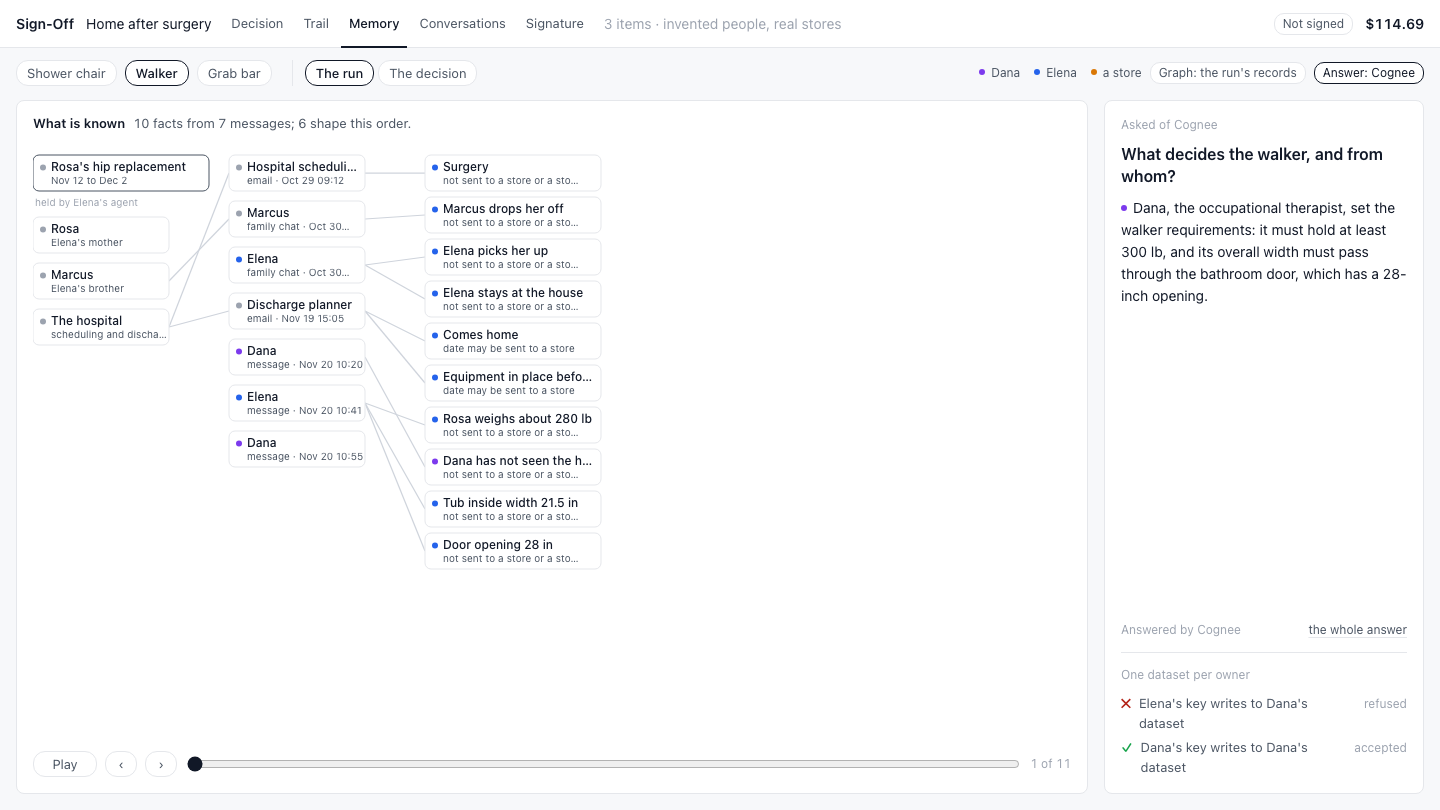
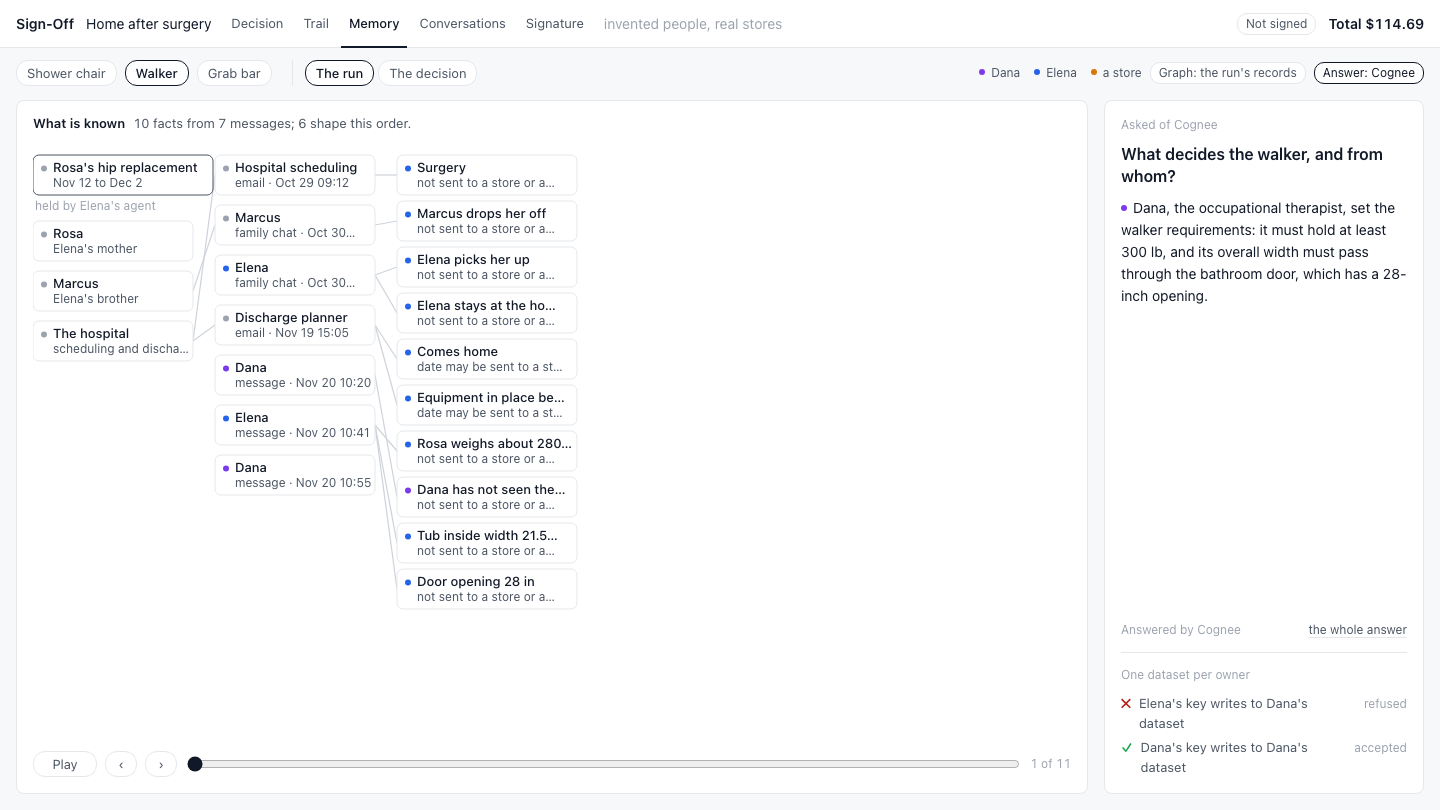
GRAPH: every product is its photo (26 px, 18 px set aside, 72 px survivors); no text under 12 px; the canvas scales from its container; the page opens paused on the finished picture; the shared top bar's words

Changed region(s): [[0.0312, 0.1852, 0.4062, 0.7407], [0.4688, 0.0, 0.5312, 0.0617], [0.875, 0.0, 0.9375, 0.0617]]

diff --git a/web/graph/explore.js b/web/graph/explore.js
@@ -4,13 +4,13 @@
 const NS = "http://www.w3.org/2000/svg";
 const REM = parseFloat(getComputedStyle(document.documentElement).fontSize) / 16;
 const px = (n) => n * REM;
-const CW = px(136), CH = px(36), SP = px(25), R = px(8), RS = px(5), RB = px(13);
+const CW = px(160), CH = px(40), SP = px(29), R = px(13), RS = px(9), RB = px(22);
 const esc = (s) => String(s ?? "").replace(/[&<>"]/g, (c) => ({ "&": "&amp;", "<": "&lt;", ">": "&gt;", '"': "&quot;" }[c]));
 const ownerClass = (o) => (o === "issuer" || o === "shopper" ? o : o === "system" || o === "web" ? "" : "store");
 const short = (s, n) => (String(s || "").length > n ? String(s).slice(0, n - 1).trimEnd() + "…" : String(s || ""));
 const clock = (at) => (at ? String(at).slice(11, 16) : "");
-const FW = px(176);                                                // a fact quoted from a message is a wider card
-const GW = px(214);                                                // the one node that stands for everything recalled
+const FW = px(180);                                                // a fact quoted from a message is a wider card
+const GW = px(244);                                                // the one node that stands for everything recalled
 const boxW = (n) => (n.group ? GW : n.kind === "context_fact" || n.kind === "event" ? FW : CW);
 const REASONS = ["outside", "unclear", "not stated", "struck", "struck before"];
 
@@ -37,7 +37,7 @@ function plan(k) {
   const P = new Map(), lines = [], texts = [];
   let leftBottom = 2 * (CH + px(22));
   const put = (id, x, y, more = {}) => P.set(id, { x, y, ...more, o: (added.get(id) ?? 0) <= k ? more.o ?? 1 : 0 });
-  const GAP = px(60), XI = CW + GAP, XS = XI + CW + GAP, PX0 = XS + CW + px(28), YROW = H * 0.56, YB = H * 0.77;
+  const GAP = px(22), XI = CW + GAP, XS = XI + CW + GAP, PX0 = XS + CW + px(22), YROW = H * 0.57, YB = H * 0.77;
 
   // the order: who, the item, the measurement
   const people = data.nodes.filter((n) => n.kind === "person");
@@ -56,7 +56,7 @@ function plan(k) {
     notes.forEach((n, i) => put(n.id, XI, i * (CH + px(10))));
     const fy = new Map();
     known.forEach((n, i) => { fy.set(n.id, i * (CH + px(6))); put(n.id, XS, fy.get(n.id), { w: FW, o: k >= iOrder && !n.used ? 0.4 : 1 }); });
-    const XD = XS + FW + px(166), XE = XD + CW + px(24);
+    const XD = XS + FW + px(150), XE = XD + CW + px(18);
     const want = (id) => { const ys = data.edges.filter((e) => e.feeds && e.to === id).map((e) => fy.get(e.from)); return ys.length ? ys.reduce((a, b) => a + b, 0) / ys.length : null; };
     const issuer = people.find((n) => n.id === "person:issuer"), shopper = people.find((n) => n.id === "person:shopper");
     [item, ...limits].forEach((n, i) => put(n.id, XE, i * (CH + px(8))));          // prescribed: the order and its rules
@@ -121,22 +121,22 @@ function plan(k) {
     groups.get(key).ids.push(p.id);
   }
   const ordered = [...groups.values()].sort((a, b) => a.stage - b.stage || REASONS.indexOf(a.reason) - REASONS.indexOf(b.reason));
-  const gcols = 9, gsp = px(13), RQ = px(2.5);
+  const gcols = 8, gsp = px(20), RQ = px(5);
   let gx = ranked ? 0 : XS;
   const asidePos = new Map();
   for (const g of ordered) {
     if (ranked) {                                                   // one quiet row: a count, a reason, its dots
-      const label = `${g.ids.length} ${g.reason}`, lw = label.length * px(5.4) + px(8);
-      texts.push({ x: gx, y: H - px(4), cls: "gs", html: esc(label) });
-      g.ids.forEach((id, i) => asidePos.set(id, { x: gx + lw + i * px(7), y: H - px(7), quiet: true }));
-      gx += lw + g.ids.length * px(7) + px(18);
+      const label = `${g.ids.length} ${g.reason}`, lw = label.length * px(6.6) + px(10);
+      texts.push({ x: gx, y: H - px(3), cls: "gs", html: esc(label) });
+      g.ids.forEach((id, i) => asidePos.set(id, { x: gx + lw + i * px(11) + RQ, y: H - px(7), quiet: true }));
+      gx += lw + g.ids.length * px(11) + px(16);
       continue;
     }
-    const w = Math.max(px(112), Math.min(gcols, g.ids.length) * gsp + px(10));
+    const w = Math.max(px(104), Math.min(gcols, g.ids.length) * gsp + px(6));
     texts.push({ x: gx, y: YB + px(4), cls: "gh", html: `<tspan class="gc">${g.ids.length}</tspan> ${esc(g.reason)}` });
-    texts.push({ x: gx, y: YB + px(18), cls: "gs", html: esc(S[g.stage].rule || S[g.stage].title) });
-    g.ids.forEach((id, i) => asidePos.set(id, { x: gx + (i % gcols) * gsp + RS, y: YB + px(34) + Math.floor(i / gcols) * (gsp + px(3)) }));
-    gx += w + px(14);
+    texts.push({ x: gx, y: YB + px(20), cls: "gs", html: esc(S[g.stage].rule || S[g.stage].title) });
+    g.ids.forEach((id, i) => asidePos.set(id, { x: gx + (i % gcols) * gsp + RS, y: YB + px(38) + Math.floor(i / gcols) * (gsp + px(1)) }));
+    gx += w + px(8);
   }
 
   // the web row and the ranked line
@@ -145,27 +145,28 @@ function plan(k) {
   const searched = reviews.map((r) => r.product);
   const order = iRank >= 0 ? S[iRank].order : [];
   const webbed = iWeb >= 0 && k >= iWeb;
-  const TOP = 5, BIGSTEP = px(84), RBIG = px(26), GS = 1.3, CY = H * 0.46;
-  const gateX = W - CW * GS - px(2), leftEdge = XI + CW + px(64);
+  const RBIG = px(36), GS = 1.15, CY = H * 0.47;
+  const gateX = W - CW * GS - px(2), leftEdge = XI + CW + px(26), head = gateX - px(40) - RBIG;
+  let TOP = Math.min(5, order.length);
+  while (TOP > 2 && (head - leftEdge - RBIG) / (TOP - 1) < px(104)) TOP -= 1;
   const big = new Set(ranked ? order.slice(0, TOP) : webbed ? searched : []);
   const linePos = new Map();
   if (ranked) {
-    const head = gateX - px(44) - RBIG, n = Math.min(TOP, order.length);
-    const step = n > 1 ? Math.min(px(170), (head - leftEdge - RBIG) / (n - 1)) : 0;
+    const n = TOP, step = n > 1 ? Math.min(px(170), (head - leftEdge - RBIG) / (n - 1)) : 0;
     order.slice(0, TOP).forEach((id, i) => linePos.set(id, { x: head - i * step, y: CY }));
     // the rest that pass, in order, in a quiet block under them
-    const tail = order.slice(TOP), trows = 2, tsp = px(10), ty = CY + RBIG + px(96);
-    tail.forEach((id, i) => linePos.set(id, { x: leftEdge + Math.floor(i / trows) * tsp, y: ty + (i % trows) * tsp }));
-    if (tail.length) texts.push({ x: leftEdge + Math.ceil(tail.length / trows) * tsp + px(8), y: ty + px(8), cls: "gs", html: `${tail.length} more that pass` });
+    const tail = order.slice(TOP), trows = 2, tsp = px(18), ty = CY + RBIG + px(100);
+    tail.forEach((id, i) => linePos.set(id, { x: leftEdge + px(8) + Math.floor(i / trows) * tsp, y: ty + (i % trows) * tsp }));
+    if (tail.length) texts.push({ x: leftEdge + px(8) + Math.ceil(tail.length / trows) * tsp + px(6), y: ty + px(13), cls: "gs", html: `${tail.length} more that pass` });
   } else if (webbed) {
     const step = Math.min(px(120), (W - PX0 - px(6)) / Math.max(1, searched.length));   // all of them inside the canvas
     searched.forEach((id, i) => linePos.set(id, { x: PX0 + step / 2 + i * step, y: YROW }));
   }
 
   if (asking) {
-    const LANE = px(24), MW = px(84), RW = px(64), xp = PX0 + px(18), spine = xp + RB + px(12), xm = spine + px(10);
+    const LANE = px(24), MW = px(84), RW = px(64), xp = PX0 + RB, spine = xp + RB + px(10), xm = spine + px(10);
     const storeX = W - CW, xr2 = storeX - RW - px(36), xg = (xm + MW + xr2) / 2;
-    const room = xg - (xm + MW), shown = Math.max(1, Math.floor((2 * room - px(30)) / px(62)));   // how many withheld parts fit on the line
+    const room = xg - (xm + MW), shown = Math.max(1, Math.floor((2 * room - px(34)) / px(70)));   // how many withheld parts fit on the line
     let ly = YROW - px(46), kept = 0;
     const top = ly;
     for (const pid of S[iAsk].row || []) {
@@ -180,7 +181,7 @@ function plan(k) {
         P.set(m.id, { x: xm, y: ly, o: 1, w: MW, h: px(18) });
         lines.push({ raw: [spine, y9, xm, y9], cls: "" }, { raw: [xm + MW, y9, xg, y9], cls: m.stopped ? "fails" : "lit" });
         // what the guard withheld sits on the guard line, struck
-        if (chips.length) texts.push({ x: xg, y: y9 + px(3.5), cls: "chip on mid", html: chips.slice(0, shown).map((c) => esc(short(c.text, 10))).join(" · ") + (chips.length > shown ? ` +${chips.length - shown}` : "") });
+        if (chips.length) texts.push({ x: xg, y: y9 + px(3.5), cls: "chip on mid", html: chips.slice(0, shown).map((c) => esc(short(c.text, 9))).join(" · ") + (chips.length > shown ? ` +${chips.length - shown}` : "") });
         const r = data.nodes.find((n) => n.kind === "reply" && n.message === m.id);
         if (r) {
           P.set(r.id, { x: xr2, y: ly, o: 1, w: RW, h: px(18) });
@@ -202,7 +203,7 @@ function plan(k) {
     const h = home.get(p.id), born = k >= iSearch, gone = asidePos.get(p.id), line = linePos.get(p.id);
     const src = P.get(h.store);
     const where = !born ? { x: src.x + CW / 2, y: src.y + CH / 2 } : gone || line || h;
-    P.set(p.id, { ...where, o: born ? (gone ? 0.75 : 1) : 0, r: gone ? (gone.quiet ? RQ : RS) : big.has(p.id) ? (ranked ? RBIG : RB) : ranked ? px(3.6) : R,
+    P.set(p.id, { ...where, o: born ? (gone ? 0.75 : 1) : 0, r: gone ? (gone.quiet ? RQ : RS) : big.has(p.id) ? (ranked ? RBIG : RB) : ranked ? px(8) : R,
       big: big.has(p.id) && !gone, aside: !!gone, dashed: k >= iRead && (S[iRead]?.not_stated || []).includes(p.id),
       read: k >= iRead, pick: ranked && p.picked, checked: limits.filter((l) => { const i = S.findIndex((x) => x.limit === l.id); return i >= 0 && i <= k; }).map((l) => l.id) });
   }
@@ -220,11 +221,11 @@ function plan(k) {
   const card = (a, b, cls = "", label = "") => { if (vis(a) && vis(b)) lines.push({ a, b, cls, label, card: true }); };
   for (const e of data.edges) {
     if (e.feeds) { if (k >= iOrder && vis(e.from) && vis(e.to)) lines.push({ a: e.from, b: e.to, card: true, cls: e.matches === false ? "fails" : "lit",
-      label: e.verb + (e.matches === true ? " · matches" : e.matches === false ? " · differs" : ""), lt: nodes.get(e.to)?.kind === "person" ? 0.5 : 0.27 }); }
+      label: short(e.verb, 22) + (e.matches === true ? " ✓" : e.matches === false ? " ✕" : ""), lt: nodes.get(e.to)?.kind === "person" ? 0.5 : 0.25 }); }
     else if (e.verb === "says") card(e.from, e.to, "", "");
     else if (e.verb === "wrote" && nodes.get(e.to)?.kind === "context_message") { if (nodes.get(e.from)?.kind === "context_person") card(e.from, e.to, "", ""); }
     else if (e.prescribed) { if (eventPhase) card(e.from, e.to, "", ""); }
-    else if (e.verb === "wrote" || e.verb === "measured") card(e.from, e.to, "", eventPhase ? "" : e.verb);
+    else if (e.verb === "wrote" || e.verb === "measured") card(e.from, e.to, "", "");
     else if (e.verb === "searches" && nodes.get(e.to)?.kind === "store" && k >= iSearch && !ranked && !asking) card(e.from, e.to, k === iSearch ? "lit" : "", "");
     else if (e.verb === "waits for" && k >= iSign && iSign >= 0) lines.push({ a: e.from, b: e.to, cls: "lit", toCard: true });
     else if (e.verb === "releases") card(e.from, e.to, "lit", "");
@@ -251,11 +252,11 @@ function plan(k) {
     order.slice(0, TOP).forEach((id) => {
       const n = nodes.get(id), p = P.get(id);
       const room = order.length > 1 ? Math.abs(P.get(order[0]).x - P.get(order[1]).x) : px(170);
-      texts.push({ x: p.x, y: p.y - p.r - px(24), cls: "pn big mid", html: esc(short(n.label, Math.max(8, Math.min(18, Math.floor(room / px(8.2)))))) });
-      texts.push({ x: p.x, y: p.y - p.r - px(9), cls: "pp big mid", html: esc((n.sub || "").split(" · ")[0]) + (n.picked ? " · the pick" : "") });
+      texts.push({ x: p.x, y: p.y - p.r - px(24), cls: "pn big mid", html: esc(short(n.label, Math.max(8, Math.min(20, Math.floor(room / px(8.8)))))) });
+      texts.push({ x: p.x, y: p.y - p.r - px(8), cls: "pp big mid", html: esc((n.sub || "").split(" · ")[0]) + (n.picked ? " · the pick" : "") });
     });
   } else if (webbed) {
-    const fit = Math.max(8, Math.floor(Math.min(px(120), (W - PX0 - px(6)) / Math.max(1, searched.length)) / px(6.6)));
+    const fit = Math.max(6, Math.floor(Math.min(px(120), (W - PX0 - px(6)) / Math.max(1, searched.length)) / px(7.4)));
     searched.forEach((id) => { const p = P.get(id); if (p.big) texts.push({ x: p.x, y: p.y - RB - px(7), cls: "pn mid", html: esc(short(nodes.get(id).label, fit)) }); });
   }
   if (asking) (S[iAsk].row || []).forEach((id) => { const p = P.get(id); texts.push({ x: p.x + RB, y: p.y + RB + px(14), cls: "pn end", html: esc(short(nodes.get(id).label, 16)) }); });
@@ -263,19 +264,26 @@ function plan(k) {
 }
 
 // ---------- drawing ----------
+function thumb(url) {
+  // ask the image host for a small copy; a host that does not know the parameter ignores it
+  try { const u = new URL(url); u.searchParams.set("width", "240"); return u.href; } catch (e) { return url; }
+}
+
 function glyph(n) {
   if (n.kind === "product") {
-    const img = n.image_url ? `<image class="ph" href="${esc(n.image_url)}" preserveAspectRatio="xMidYMid slice"/>` : "";
-    return `<title>${esc(n.label)} · ${esc(n.sub || "")}</title><circle class="c"/>${img}<circle class="ring"/><circle class="q q0"/><circle class="q q1"/>`;
+    // a product is its photo; with no photo, a plain tile carrying the first word of its name
+    const img = n.image_url ? `<image class="ph" href="${esc(thumb(n.image_url))}" preserveAspectRatio="xMidYMid slice"/>` : "";
+    return `<title>${esc(n.label)} · ${esc(n.sub || "")}</title><rect class="c"/><text class="tw mid">${esc(short(String(n.label || "").split(/\s+/)[0], 4))}</text>${img}<rect class="bd"/><rect class="ring"/><circle class="q q0"/><circle class="q q1"/>`;
   }
-  const dot = n.kind === "web" || n.kind === "review" ? "" : `<circle class="od ${ownerClass(n.owner)}" cx="${px(10)}" cy="${px(12.5)}" r="${px(3)}"/>`;
-  const tx = dot ? px(18) : px(9);
+  const one = n.kind === "store" || !n.sub;                           // a store's card needs no second line
+  const dot = n.kind === "web" || n.kind === "review" ? "" : `<circle class="od ${ownerClass(n.owner)}" cx="${px(11)}" cy="${one ? CH / 2 : px(13.5)}" r="${px(3)}"/>`;
+  const tx = dot ? px(20) : px(10);
   if (n.kind === "message") return `<title>${esc(n.sub || "")}</title><rect class="b pill${n.stopped ? " stopped" : ""}" width="${px(84)}" height="${px(18)}" rx="${px(9)}"/><text class="l mid" x="${px(42)}" y="${px(12.5)}">${esc(n.label)}</text>`;
   if (n.kind === "reply") return `<title>${esc(n.sub || "")}</title><rect class="b pill" width="${px(64)}" height="${px(18)}" rx="${px(9)}"/><circle class="od store" cx="${px(12)}" cy="${px(9)}" r="${px(3)}"/><text class="l" x="${px(21)}" y="${px(12.5)}">reply</text>`;
-  if (n.kind === "review") return `<rect class="b pill" width="${px(72)}" height="${px(18)}" rx="${px(9)}"/><text class="l mid" x="${px(36)}" y="${px(12.5)}">${esc(short(n.label, 11))}</text><text class="s mid" x="${px(36)}" y="${px(30)}">${esc(short(n.sub, 14))}</text>`;
-  const w = boxW(n), room = (w - tx - px(6)) / px(6.1);
+  if (n.kind === "review") return `<rect class="b pill" width="${px(72)}" height="${px(18)}" rx="${px(9)}"/><text class="l mid" x="${px(36)}" y="${px(12.5)}">${esc(short(n.label, 11))}</text><text class="s mid" x="${px(36)}" y="${px(32)}">${esc(short(n.sub, 15))}</text>`;
+  const w = boxW(n), room = (w - tx - px(6)) / px(6.9);
   return `<title>${esc(n.label)}</title><rect class="b" width="${w}" height="${CH}" rx="${px(6)}"/>${dot}
-    <text class="l" x="${tx}" y="${px(15.5)}">${esc(short(n.label, Math.floor(room)))}</text><text class="s" x="${tx}" y="${px(28.5)}">${esc(short(n.sub, Math.floor(room * 1.2)))}</text>
+    <text class="l" x="${tx}" y="${one ? CH / 2 + px(4.5) : px(17)}">${esc(short(n.label, Math.floor(room)))}</text>${one ? "" : `<text class="s" x="${tx}" y="${px(32)}">${esc(short(n.sub, Math.floor((w - tx - px(6)) / px(6.0))))}</text>`}
     ${n.kind === "gate" ? `<path class="bar" d="M${-px(12)} ${-px(14)}V${CH + px(14)}"/>` : ""}`;
 }
 
@@ -288,6 +296,10 @@ function build() {
   for (const n of data.nodes) {
     if (n.kind === "statement") continue;                           // a quote is drawn on its product
     const g = el("g", { class: `xn k-${n.kind}`, "data-id": n.id, tabindex: n.kind === "product" ? -1 : 0 }, glyph(n));
+    if (n.kind === "product") {
+      const img = g.querySelector(".ph");
+      if (!img) g.classList.add("noimg"); else img.addEventListener("error", () => { g.classList.add("noimg"); img.remove(); });
+    }
     gn.appendChild(g);
     X.els.set(n.id, g);
   }
@@ -301,10 +313,13 @@ function paint(P) {
     g.setAttribute("opacity", p.o);
     g.setAttribute("transform", `translate(${p.x} ${p.y})${p.s ? ` scale(${p.s})` : ""}`);
     if (p.r != null) {
-      const [c, img, ring, q0, q1] = [g.querySelector(".c"), g.querySelector(".ph"), g.querySelector(".ring"), g.querySelector(".q0"), g.querySelector(".q1")];
-      c.setAttribute("r", p.r); ring.setAttribute("r", p.r + px(3));
-      if (img) { img.setAttribute("x", -p.r); img.setAttribute("y", -p.r); img.setAttribute("width", 2 * p.r); img.setAttribute("height", 2 * p.r); img.style.clipPath = `circle(${p.r}px at ${p.r}px ${p.r}px)`; }
-      [q0, q1].forEach((q, i) => { q.setAttribute("cx", (i ? 1 : -1) * p.r * 0.5); q.setAttribute("cy", -p.r - px(3.5)); q.setAttribute("r", Math.max(px(1.6), p.r * 0.24)); });
+      const [c, bd, img, ring, q0, q1, tw] = [".c", ".bd", ".ph", ".ring", ".q0", ".q1", ".tw"].map((q) => g.querySelector(q));
+      const box = (e, r, round) => { e.setAttribute("x", -r); e.setAttribute("y", -r); e.setAttribute("width", 2 * r); e.setAttribute("height", 2 * r); e.setAttribute("rx", round); };
+      const round = Math.max(px(2), p.r * 0.2);
+      box(c, p.r, round); box(bd, p.r, round); box(ring, p.r + px(3.5), round + px(3));
+      if (img) { box(img, p.r, 0); img.style.clipPath = `inset(0 round ${round}px)`; }
+      tw.setAttribute("y", px(4)); tw.style.visibility = p.r >= px(12) ? "" : "hidden";
+      [q0, q1].forEach((q, i) => { q.setAttribute("cx", (i ? 1 : -1) * p.r * 0.45); q.setAttribute("cy", -p.r - px(4)); q.setAttribute("r", px(2.2)); });
     }
   }
   const at = (id, l, end) => {
@@ -333,7 +348,7 @@ function dress(k, target) {
     if (n.kind === "context_fact") g.classList.toggle("lit", k === data.stages.findIndex((s) => s.id === "order") && !!n.feeds_here);
     if (n.kind !== "product") continue;
     g.classList.toggle("aside", p.aside); g.classList.toggle("dashed", p.dashed); g.classList.toggle("pick", !!p.pick);
-    g.classList.toggle("big", p.big); g.classList.toggle("read", p.read && p.r > px(3.8) && p.r < px(20));
+    g.classList.toggle("big", p.big); g.classList.toggle("read", p.read && p.r >= px(12) && p.r < px(20));
     const limits = data.nodes.filter((x) => x.kind === "limit");
     g.querySelectorAll(".q").forEach((q, i) => {
       const lim = limits[i], v = lim ? n.checks[lim.id.replace(/^limit:/, "")] : null;
@@ -380,9 +395,10 @@ function go(k, instant = false) {
 export function mount(host, data, hooks, opts = {}) {
   if (X) { clearInterval(X.timer); cancelAnimationFrame(X.raf); }   // one canvas, one clock
   host.innerHTML = "";
-  const svg = el("svg", { class: "xp", width: host.clientWidth, height: host.clientHeight });
+  const cw = host.clientWidth, ch = host.clientHeight, DW = Math.max(cw, px(1036)), DH = Math.max(ch, px(580));
+  const svg = el("svg", { class: "xp", width: cw, height: ch, viewBox: `0 0 ${DW} ${DH}`, preserveAspectRatio: "xMinYMin meet" });
   host.appendChild(svg);
-  X = { host, svg, data, hooks, W: host.clientWidth - px(4), H: host.clientHeight - px(24), sel: null, motion: opts.motion !== false, lineEls: [] };
+  X = { host, svg, data, hooks, W: DW - px(4), H: DH - px(24), sel: null, motion: opts.motion !== false, lineEls: [] };
   build();
   go(Math.min(opts.stage ?? 0, data.stages.length - 1), true);
   svg.addEventListener("click", (e) => {

diff --git a/web/graph/graph.js b/web/graph/graph.js
@@ -136,10 +136,11 @@ function drawExplore() {
   xkey = key;
   // a new item opens at the start and plays; fresh records for the same item keep the stage on screen
   const asked = params.get("stage"), last = xdata.stages.length - 1;
-  const at = same ? XP.stage() : asked != null ? Number(asked) : MOTION ? 0 : last;
+  // the page opens on the finished picture, paused (Play replays it); the frame over the decision screen plays it
+  const at = same ? XP.stage() : asked != null ? Number(asked) : EMBED ? 0 : last;
   XP.mount($("#stage"), xdata, { onSelect: (id) => { sel = id; renderSide(); }, onStage: renderStage }, { stage: at, motion: MOTION });
   // in a frame the whole run takes about half a minute; on the page a stage is shorter
-  if (!same && asked == null && MOTION && (!EMBED || params.get("autoplay") !== "0")) XP.play(true, EMBED ? Math.round(27000 / xdata.stages.length) : undefined);
+  if (!same && asked == null && EMBED && params.get("autoplay") !== "0") XP.play(true, Math.round(27000 / xdata.stages.length));
 }
 
 function draw() {
@@ -205,12 +206,12 @@ function draw() {
 function renderTop() {
   const s = data.sheet || {}, b = data.bar || {};
   const mode = b.mode === "fixture" ? "fixture data" : b.mode === "replay" ? "replay of cached store data" : "";
-  const meta = [b.items ? `${b.items} items` : "", s.invented ? "invented people, real stores" : "", mode].filter(Boolean).join(" · ");
+  const meta = [s.invented ? "invented people, real stores" : "", mode].filter(Boolean).join(" · ");
   $("#top").innerHTML = `<span class="brand">Sign-Off</span><span class="sheet">${esc(s.title || "")}</span>
     <nav class="tabs" aria-label="Views"><a href="/">Decision</a><a href="/trail/">Trail</a><a href="/graph/" aria-current="page">Memory</a><a href="/talk/">Conversations</a><a href="/seal/">Signature</a></nav>
     <span class="meta">${esc(meta)}</span><span class="grow"></span>
-    <span class="pill ${b.signed ? "signed" : ""}">${b.signed ? "Signed " + clock(b.signed_at) : "Not signed"}</span>
-    ${typeof b.total_cents === "number" ? `<span class="total">$${(b.total_cents / 100).toFixed(2)}</span>` : ""}`;
+    <span class="pill ${b.signed ? "signed" : ""}">${b.signed ? "Signed" + (b.signer ? " by " + esc(b.signer) : "") : "Not signed"}</span>
+    ${typeof b.total_cents === "number" ? `<span class="total"><span class="tl">Total</span> <span data-k="total">$${(b.total_cents / 100).toFixed(2)}</span></span>` : ""}`;
 }
 
 function renderBand() {
@@ -303,8 +304,8 @@ function render() { if (EMBED) { view = "explore"; draw(); return; } renderTop()
 async function load() {
   const q = line ? `?line_id=${encodeURIComponent(line)}` : "";
   let body = await (await fetch("/api/graph" + q)).json();
-  if (!body.nodes && body.lines?.length) {                           // no item named: the one with the most found
-    line = [...body.lines].sort((a, b) => (b.products || 0) - (a.products || 0))[0].line_id;
+  if (!body.nodes && body.lines?.length) {                           // no item named
+    line = body.lines[0].line_id;                                    // the first item on the sheet, as on every page
     body = await (await fetch(`/api/graph?line_id=${encodeURIComponent(line)}`)).json();
   }
   const [a, c, x] = await Promise.all([

diff --git a/web/graph/graph.css b/web/graph/graph.css
@@ -137,3 +137,29 @@ svg.xp .pn.big { font-size: 0.8125rem; font-weight: 600; }
 svg.xp .pp.big { font-size: 0.75rem; }
 svg.xp .k-memory .l { font-size: 0.75rem; }
 svg.xp .end { text-anchor: end !important; }
+
+/* products are photos; no text under 12 px */
+svg.xp .k-product .c { fill: var(--bg); stroke: none; }
+svg.xp .k-product .bd { fill: none; stroke: var(--line); stroke-width: 1; }
+svg.xp .k-product:hover .bd { stroke: var(--t1); }
+svg.xp .k-product.dashed .bd { stroke: var(--t3); stroke-dasharray: 3 2.5; }
+svg.xp .k-product.dashed .c { stroke: none; }
+svg.xp .k-product .ph { display: block; pointer-events: none; }
+svg.xp .k-product.aside .ph { filter: grayscale(1); opacity: 0.5; }
+svg.xp .k-product.aside .c { fill: var(--dot-out); stroke: none; }
+svg.xp .k-product .tw { font: 0.75rem var(--f); fill: var(--t2); stroke: none; pointer-events: none; }
+svg.xp .k-product.aside .tw { display: none; }
+svg.xp .k-product .ring { fill: none; stroke: none; }
+svg.xp .k-product.pick .ring { stroke: var(--t1); stroke-width: 2.5; }
+svg.xp .k-product.sel .bd { stroke: var(--t1); stroke-width: 2; }
+svg.xp .xn .l { font-size: 0.8125rem; }
+svg.xp .xn .s, svg.xp .lt, svg.xp .gs, svg.xp .src, svg.xp .chip, svg.xp .stop, svg.xp .pp { font-size: 0.75rem; }
+svg.xp .gh, svg.xp .pn { font-size: 0.8125rem; }
+svg.xp .pp.big { font-size: 0.8125rem; }
+svg.xp .pn.big { font-size: 0.875rem; }
+svg.xp .k-message .l, svg.xp .k-reply .l, svg.xp .k-memory .l, svg.xp .chip.on { font-size: 0.75rem; }
+svg.xp .k-review .l { font-size: 0.75rem; }
+.n .s { font-size: 0.75rem; }
+.stage text { font-size: 0.75rem; }
+svg.xp .k-product .tw { display: none; }
+svg.xp .k-product.noimg .tw { display: block; }

diff --git a/signoff/graph/api.py b/signoff/graph/api.py
@@ -55,7 +55,8 @@ def graph(line_id: str | None = None, near: int = 2):
             "whole": build.counts(g), "memory": dict(g["memory"], available=r["memory_available"], rows=len(r["memory"])),
             "bar": {"items": len(sheet.get("lines") or []), "mode": r["state"].get("mode"),
                     "signed": bool((r["state"].get("seal") or {}).get("signed")),
-                    "signed_at": (r["state"].get("seal") or {}).get("signed_at"), "total_cents": r["state"].get("total_cents")},
+                    "signed_at": (r["state"].get("seal") or {}).get("signed_at"), "signer": (r["state"].get("seal") or {}).get("signer"),
+                    "total_cents": r["state"].get("total_cents")},
             "cognee": _held(sheet.get("id"))}
     if line_id is None:
         return JSONResponse(base, headers=NO_STORE)
